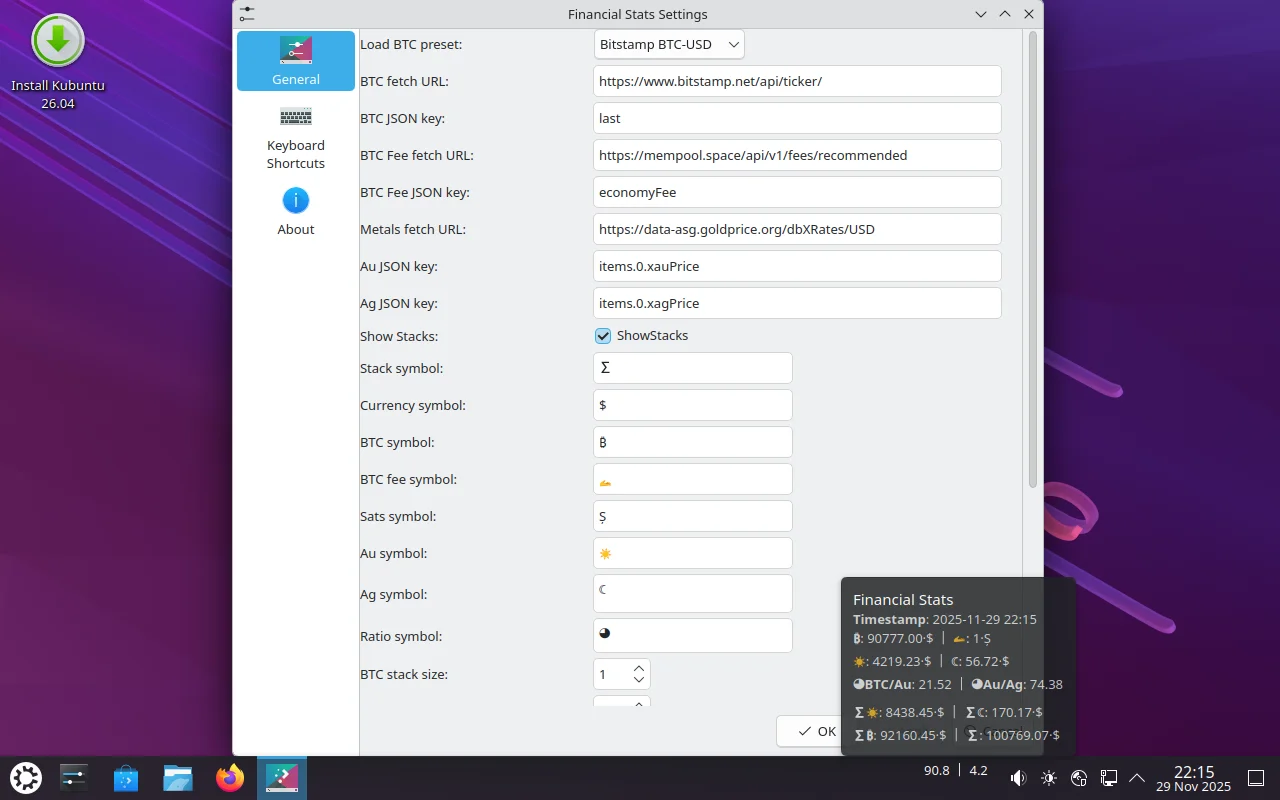
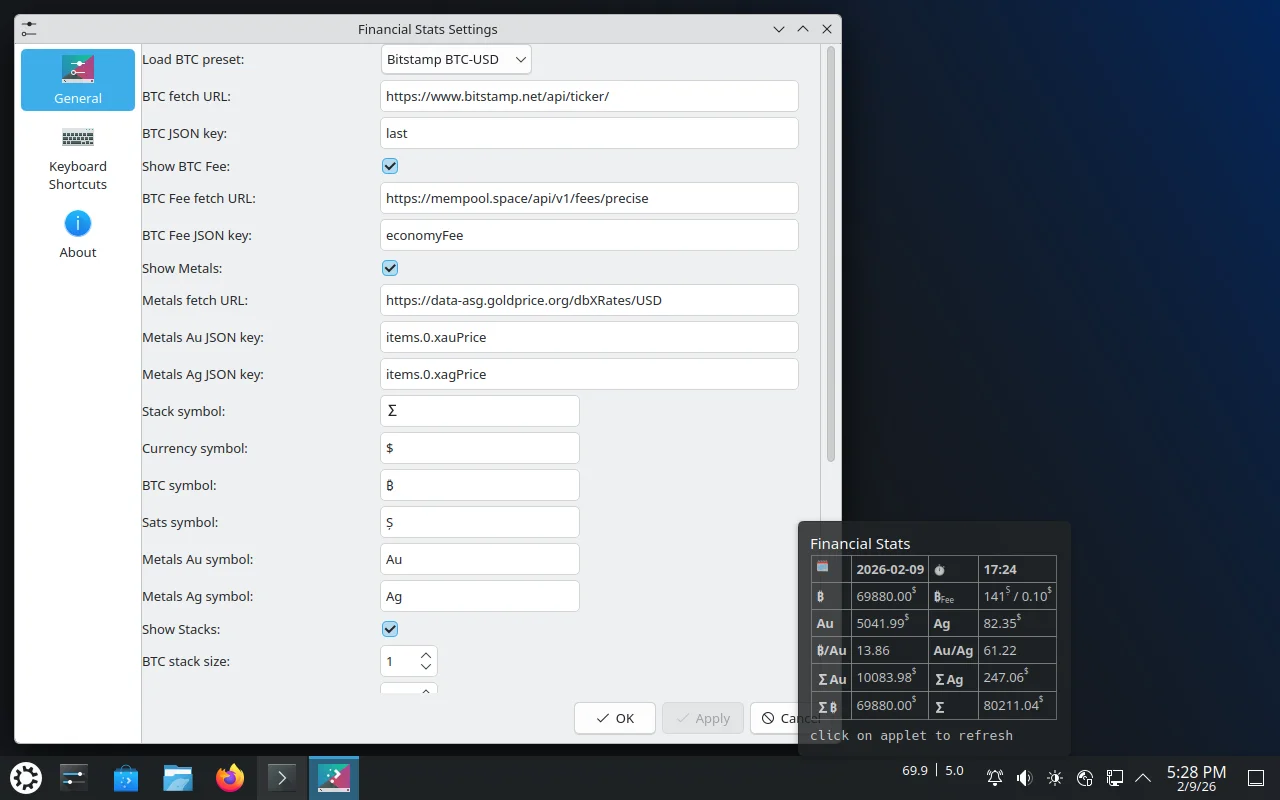
Update pictures and display usable BTC fee

diff --git a/plasmoid/contents/ui/main.qml b/plasmoid/contents/ui/main.qml
@@ -175,6 +175,8 @@ PlasmoidItem {
 		var formattedDate = Qt.formatDateTime(today, "yyyy-MM-dd")
 		var formattedTime = Qt.formatDateTime(today, "hh:mm")
 		var lineStr = ""
+		var btcStdFee = ((btcfeeData[0] < 1 ) ? 1 : btcfeeData[0]) * 141 // vBytes for segwit 1 in 2 out Tx
+		var btcStdFeePrice = btcStdFee / 100000000 * btcData[0]  // price per Tx in currency
 
 		// Build panel applet text (unicode symbols collection Ⓑ₿Ș$≐🜚🜛· ∣│◕)
 		myLabel.text  = (btcData[0]/priceDivider).toFixed(decPlaces) // + "k"
@@ -207,7 +209,8 @@ PlasmoidItem {
 
 		// Add BTC Fee
 		if (showBTCFee) {
-			lineStr += " | **" + btcSymbol + "<sub>Fee</sub>" + "** | " + btcfeeData[0] + "<sup>" + satsSymbol + "</sup>"
+			lineStr += " | **" + btcSymbol + "<sub>Fee</sub>" + "** | " + btcStdFee + "<sup>" + satsSymbol + "</sup>"
+			lineStr += " / " + btcStdFeePrice.toFixed(decPlacesTT) + "<sup>" + curSymbol + "</sup>"
 		} else {
 			lineStr += " | |"
 		}
